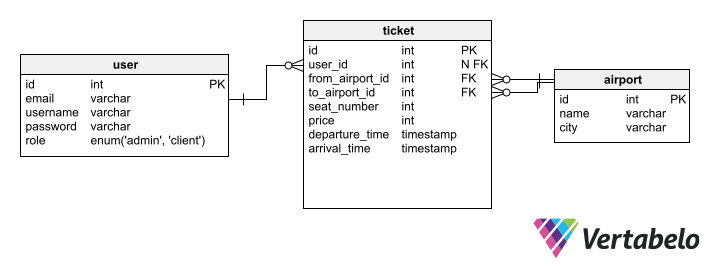
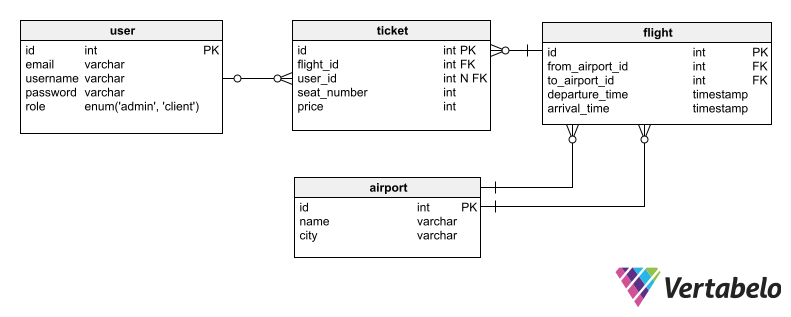
corrections

Changed region(s): [[0.0, 0.0597, 0.9929, 0.8358], [0.7447, 0.806, 0.9929, 0.9552], [0.031, 0.5672, 0.3103, 0.597]]

diff --git a/dataModeling.md b/dataModeling.md
@@ -4,16 +4,16 @@
 
 ![data-modeling](erd.png)
 
-## Table of Contents
+# Data Modeling
+
+## Contents
 
 - [Tables](#tables)
-  - [1. Airport](#1-airport)
-  - [2. Ticket](#2-ticket)
-  - [3. User](#3-user)
+  - [Airport](#1-airport)
+  - [Flight](#2-flight)
+  - [Ticket](#3-ticket)
+  - [User](#4-user)
 - [Relationships](#relationships)
-    - [1. User to Ticket](#1-user-to-ticket)
-    - [2. Ticket to Airport (from_airport)](#2-ticket-to-airport-from_airport)
-    - [3. Ticket to Airport (to_airport)](#3-ticket-to-airport-to_airport)
 
 -----
 
@@ -21,50 +21,55 @@
 
 ### 1. Airport
 
-| Key | Column Name      | Data Type | Description                  |
-|-----|------------------|-----------|------------------------------|
-| PK  | id               | int       | Primary key for Airport     |
-|     | name             | varchar   | Name of the airport          |
-|     | city             | varchar   | Name of the city             |
+| Key | Column Name    | Data Type | Description                |
+|-----|----------------|-----------|----------------------------|
+| PK  | id             | int       | Primary key for Airport    |
+|     | name           | varchar   | Name of the airport        |
+|     | city           | varchar   | Name of the city           |
 
-### 2. Ticket
+### 2. Flight
 
-| Key | Column Name     | Data Type | Description                                                 |
-|-----|-----------------|-----------|-------------------------------------------------------------|
-| PK  | id              | int       | Primary key for Ticket                                      |
-| FK  | user_id         | int       | Foreign key to User (nullable, ticket can be not purchased) |
-| FK  | from_airport_id | int       | Foreign key to Airport (from)                               |
-| FK  | to_airport_id   | int       | Foreign key to Airport (to)                                 |
-|     | seat_number     | int       | Seat number of the ticket                                   |
-|     | price           | int       | Price of the ticket                                         |
-|     | departure_time  | timestamp | Departure time of the ticket                                |
-|     | arrival_time    | timestamp | Arrival time of the ticket                                  |
+| Key | Column Name      | Data Type | Description                           |
+|-----|------------------|-----------|---------------------------------------|
+| PK  | id               | int       | Primary key for Flight                |
+|     | from_airport_id  | int       | Foreign key referencing Airport (from)|
+|     | to_airport_id    | int       | Foreign key referencing Airport (to)  |
+|     | departure_time   | timestamp | Time of flight departure              |
+|     | arrival_time     | timestamp | Time of flight arrival                |
 
-### 3. User
+### 3. Ticket
 
-| Key | Column Name | Data Type | Description                               |
-|-----|-------------|-----------|-------------------------------------------|
-| PK  | id          | int       | Primary key for User                      |
-|     | email       | varchar   | Email of the user                         |
-|     | username    | varchar   | Username of the user                      |
-|     | password    | varchar   | Password of the user                      |
-|     | role        | user_role | Role of the user (enum('admin','client')) |
+| Key | Column Name  | Data Type | Description                        |
+|-----|--------------|-----------|------------------------------------|
+| PK  | id           | int       | Primary key for Ticket              |
+|     | flight_id    | int       | Foreign key referencing Flight     |
+|     | user_id      | int       | Foreign key referencing User       |
+|     | seat_number  | int       | Seat number on the flight           |
+|     | price        | int       | Price of the ticket                 |
+
+### 4. User
+
+| Key | Column Name | Data Type | Description                     |
+|-----|-------------|-----------|---------------------------------|
+| PK  | id          | int       | Primary key for User             |
+|     | email       | varchar   | User's email                     |
+|     | username    | varchar   | User's username                  |
+|     | password    | varchar   | User's hashed password           |
+|     | role        | user_role | User's role (admin or client)    |
 
 ## Relationships
 
-All relationships are one to many
+- **User to Ticket - One-to-Many:**
+  - One user can have many tickets, but one ticket cannot have many users.
 
-### 1. User to Ticket
+- **Flight to Airport (From) - Many-to-One:**
+  - Many flights can depart from the same airport, but each flight can depart from only one airport.
 
-- One user can have many tickets.
-- One ticket can belong to only one user.
+- **Flight to Airport (To) - Many-to-One:**
+  - Many flights can arrive at the same airport, but each flight can arrive at only one airport.
 
-### 2. Ticket to Airport (from_airport)
+- **Ticket to Flight - Many-to-One:**
+  - Many tickets can be associated with one flight, but each ticket is associated with only one flight.
 
-- One ticket is associated with one departure airport.
-- One departure airport can be associated with many tickets.
-
-### 3. Ticket to Airport (to_airport)
-
-- One ticket is associated with one destination airport.
-- One destination airport can be associated with many tickets.
+- **Ticket to User - Many-to-One:**
+  - Many tickets can be associated with one user, but each ticket is associated with only one user.
